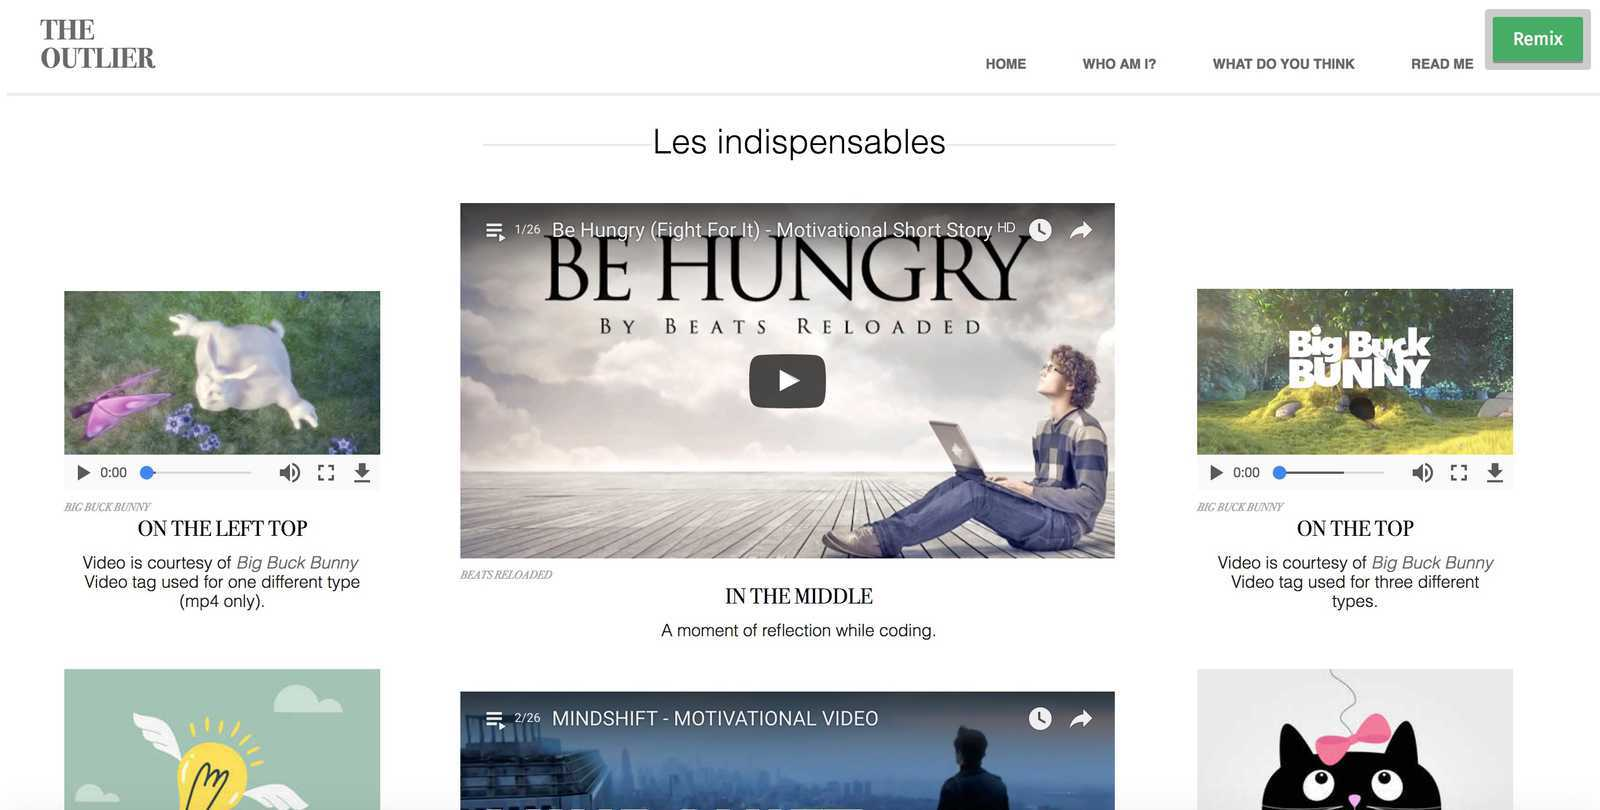
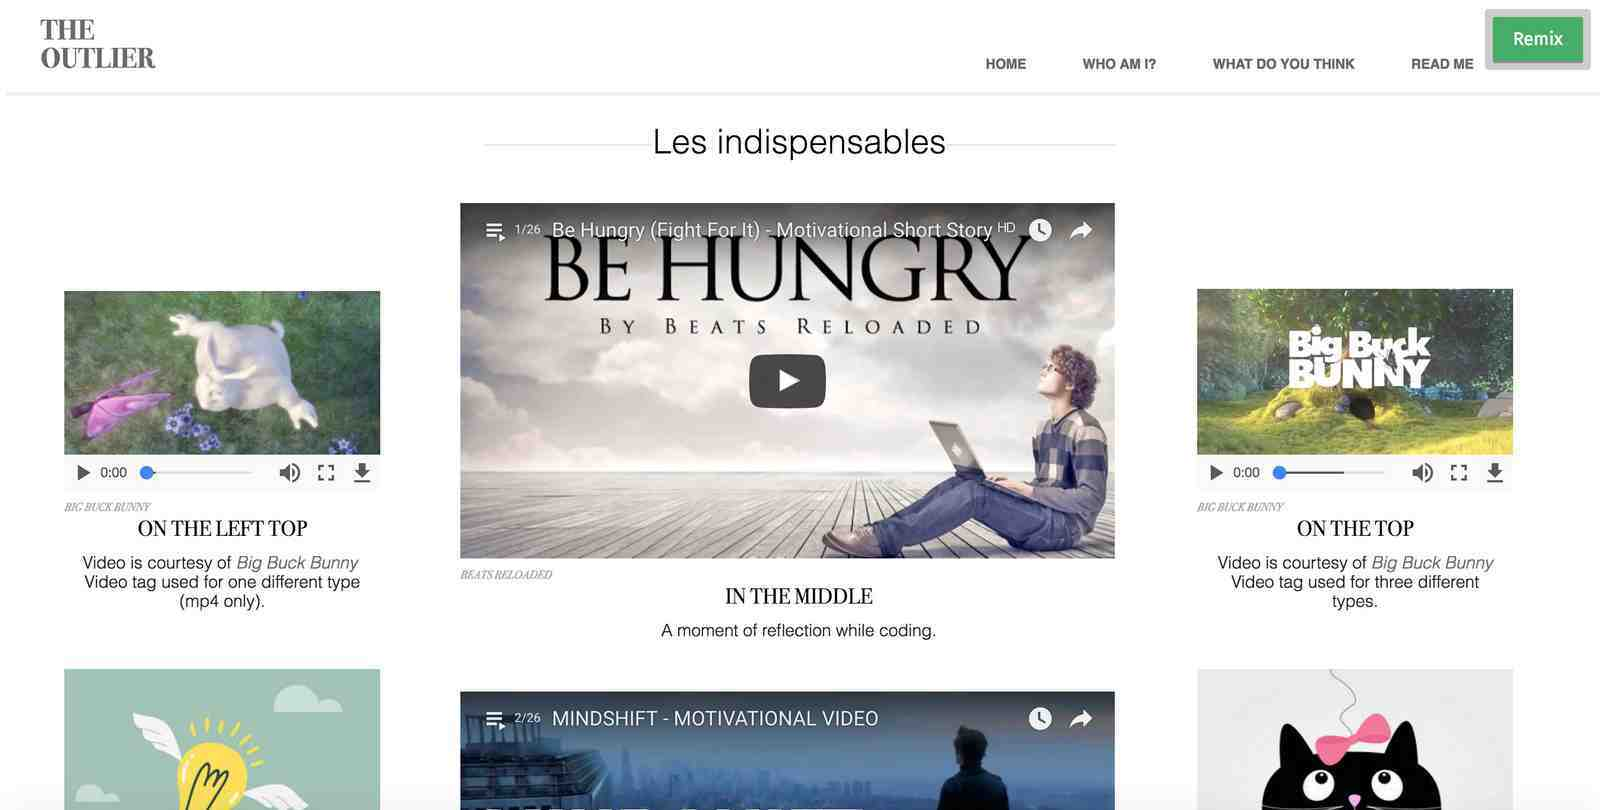
image quality 30 for both

diff --git a/Gruntfile.js b/Gruntfile.js
@@ -20,7 +20,7 @@ var mozjpeg = require('imagemin-mozjpeg');
           sizes: [{
             width:1600,
             suffix:'_large_2x',
-            quality:50,
+            quality:25,
 
             // width:800,
             // suffix:'_large_1x', ---> Use when you need this size -- it is one si
